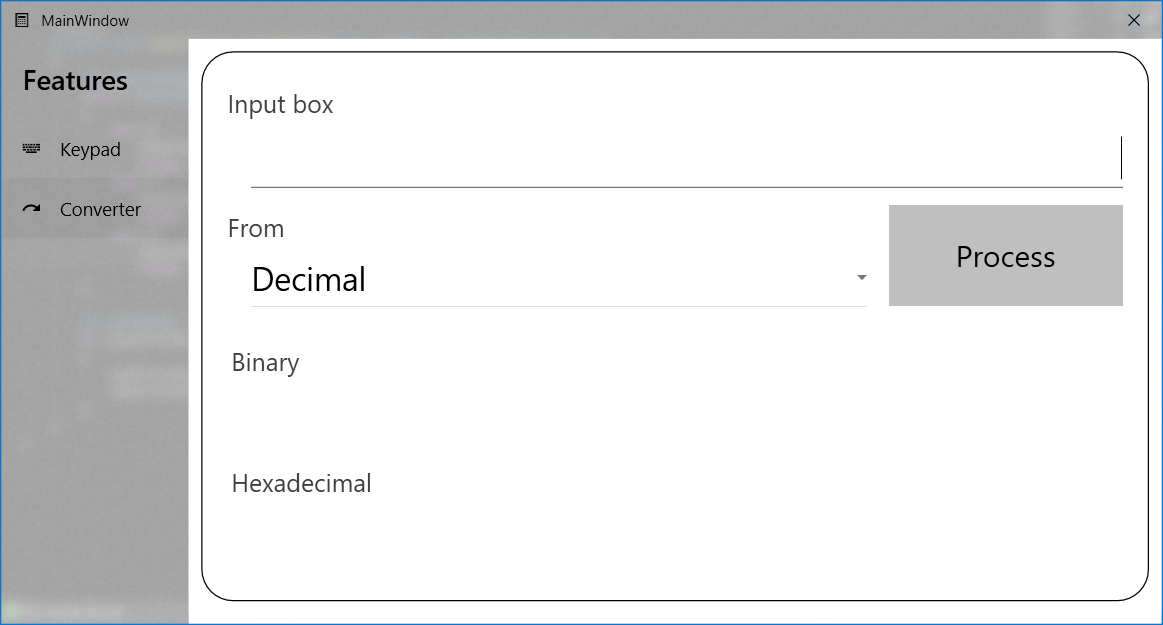
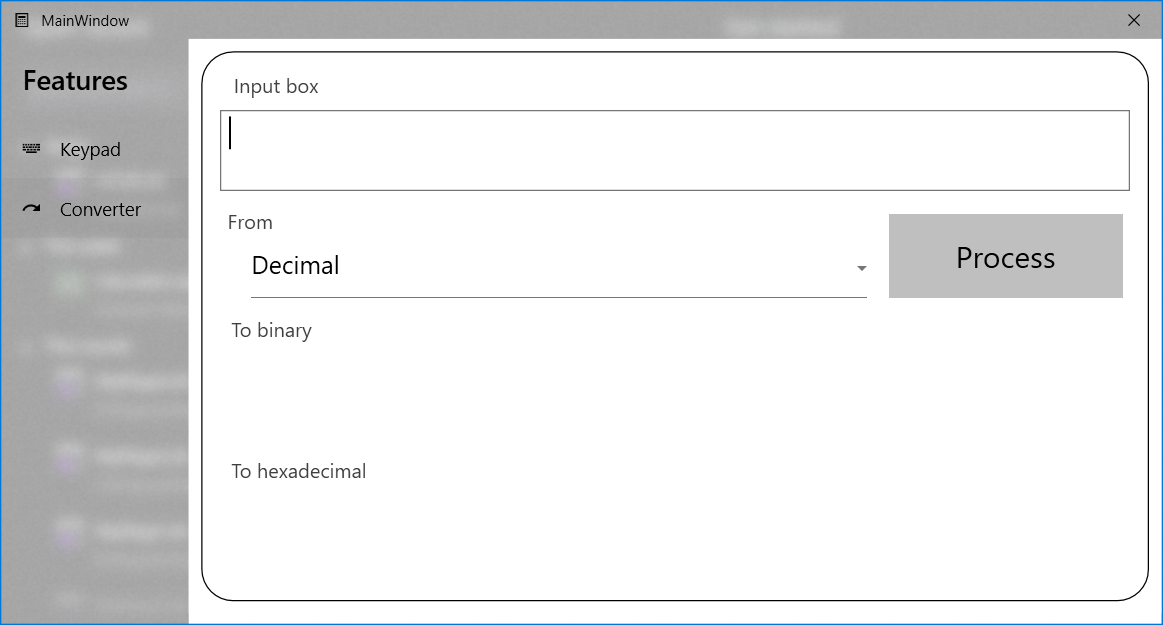
Update README.md

diff --git a/Calculator/UserControlConverter.xaml b/Calculator/UserControlConverter.xaml
@@ -12,7 +12,7 @@
             <Border BorderBrush="Black" BorderThickness="1" Margin="10" CornerRadius="25"/>
 
             <Label Margin="32,22,31,408" FontSize="16" Content="Input box"/>
-            <TextBox x:Name="InputTextbox" Cursor="IBeam" TextWrapping="Wrap" CharacterCasing="Upper" TextChanged="InputTextbox_TextChanged" PreviewTextInput="InputTextbox_PreviewTextInput" Loaded="InputTextbox_Loaded" KeyUp="InputTextbox_KeyUp" MaxLength="38" Margin="31,57,30,334" FontSize="20" FontWeight="DemiBold" HorizontalContentAlignment="Left" BorderThickness="1"/>
+            <TextBox x:Name="InputTextbox" Cursor="IBeam" TextWrapping="Wrap" Padding="3,0" CharacterCasing="Upper" TextChanged="InputTextbox_TextChanged" PreviewTextInput="InputTextbox_PreviewTextInput" Loaded="InputTextbox_Loaded" KeyUp="InputTextbox_KeyUp" MaxLength="38" Margin="25,57,25,338" FontSize="20" FontWeight="DemiBold" HorizontalContentAlignment="Left" BorderThickness="1"/>
 
             <Label Margin="27,131,242,298" FontSize="16" Content="From"/>
             <ComboBox x:Name="FromComboBox" SelectedIndex="0" SelectionChanged="FromComboBox_SelectionChanged" FontSize="20" HorizontalAlignment="Left" Margin="50,161,0,0" VerticalAlignment="Top" Width="493" Height="46">

diff --git a/README.md b/README.md
@@ -8,18 +8,30 @@
 
 
 ## Chức năng
-Có 2 tab chức năng: `Keypad` và `Converter`
-
-### Keypad
-Là phần dùng để tính toán cơ bản của chương trình. Bao gồm các phép tính cơ bản `+`, `-`, `*`, `/`. Được mô phỏng tương tự với chương trình Calculator mặc định của Microsoft Windows 10 với khả năng tính toán *big numbers*.
-
-### Converter
-Là phần dùng để chuyển đổi giữa các hệ cơ số của chương trình. Bao gồm 3 hệ cơ số là `Decimal` (Hệ thập phân), `Binary` (Hệ nhị phân) và `Hexadecimal` (Hệ thập lục phân). 
+Có 2 tab chức năng là `Keypad` và `Converter`
 
 ## Keypad
+Là phần dùng để tính toán cơ bản của chương trình. Bao gồm các phép tính cơ bản `+`, `-`, `*`, `/`. Được mô phỏng tương tự với chương trình Calculator mặc định của Microsoft Windows 10 với khả năng tính toán *big numbers*.
+
 Giao diện của tab Keypad với bố cục bảng số và dấu. Cho phép nhập chuỗi tính toán theo quy tắc toán học. Có thể nhận input từ bàn phím. 
 
 ![](README/2.png)
 
 ## Converter
-![](README/1.png)
+Là phần dùng để chuyển đổi giữa các hệ cơ số của chương trình. Bao gồm 3 hệ cơ số là `Decimal` (Hệ thập phân), `Binary` (Hệ nhị phân) và `Hexadecimal` (Hệ thập lục phân).
+
+Giao diện của tab Converter với bố cục:
+- Một khung `Input box` để nhập giá trị đầu vào được ràng buộc theo điều kiện ở ô `From` (Số lượng chữ số, kiểu dữ liệu và phạm vi giá trị). 
+- Hai khung kết quả bên dưới với giá trị tùy thuộc vào loại chuyển đổi ta chọn ở ô `From` và xử lý tính toán sau khi ta nhấn vào nút Process (Kết quả cho ra là 2 trong 3 hệ cơ số còn lại).
+
+Minh họa cho chuyển đổi từ **hệ thập phân** sang **hệ nhị phân** và **hệ thập lục phân**:
+
+![](README/4.png)
+
+Minh họa cho chuyển đổi từ **hệ nhị phân** sang **hệ thập phân** và **hệ thập lục phân**:
+
+![](README/5.png)
+
+Minh họa cho chuyển đổi từ **hệ thập lục phân** sang **hệ thập phân** và **hệ nhị phân**:
+
+![](README/6.png)
